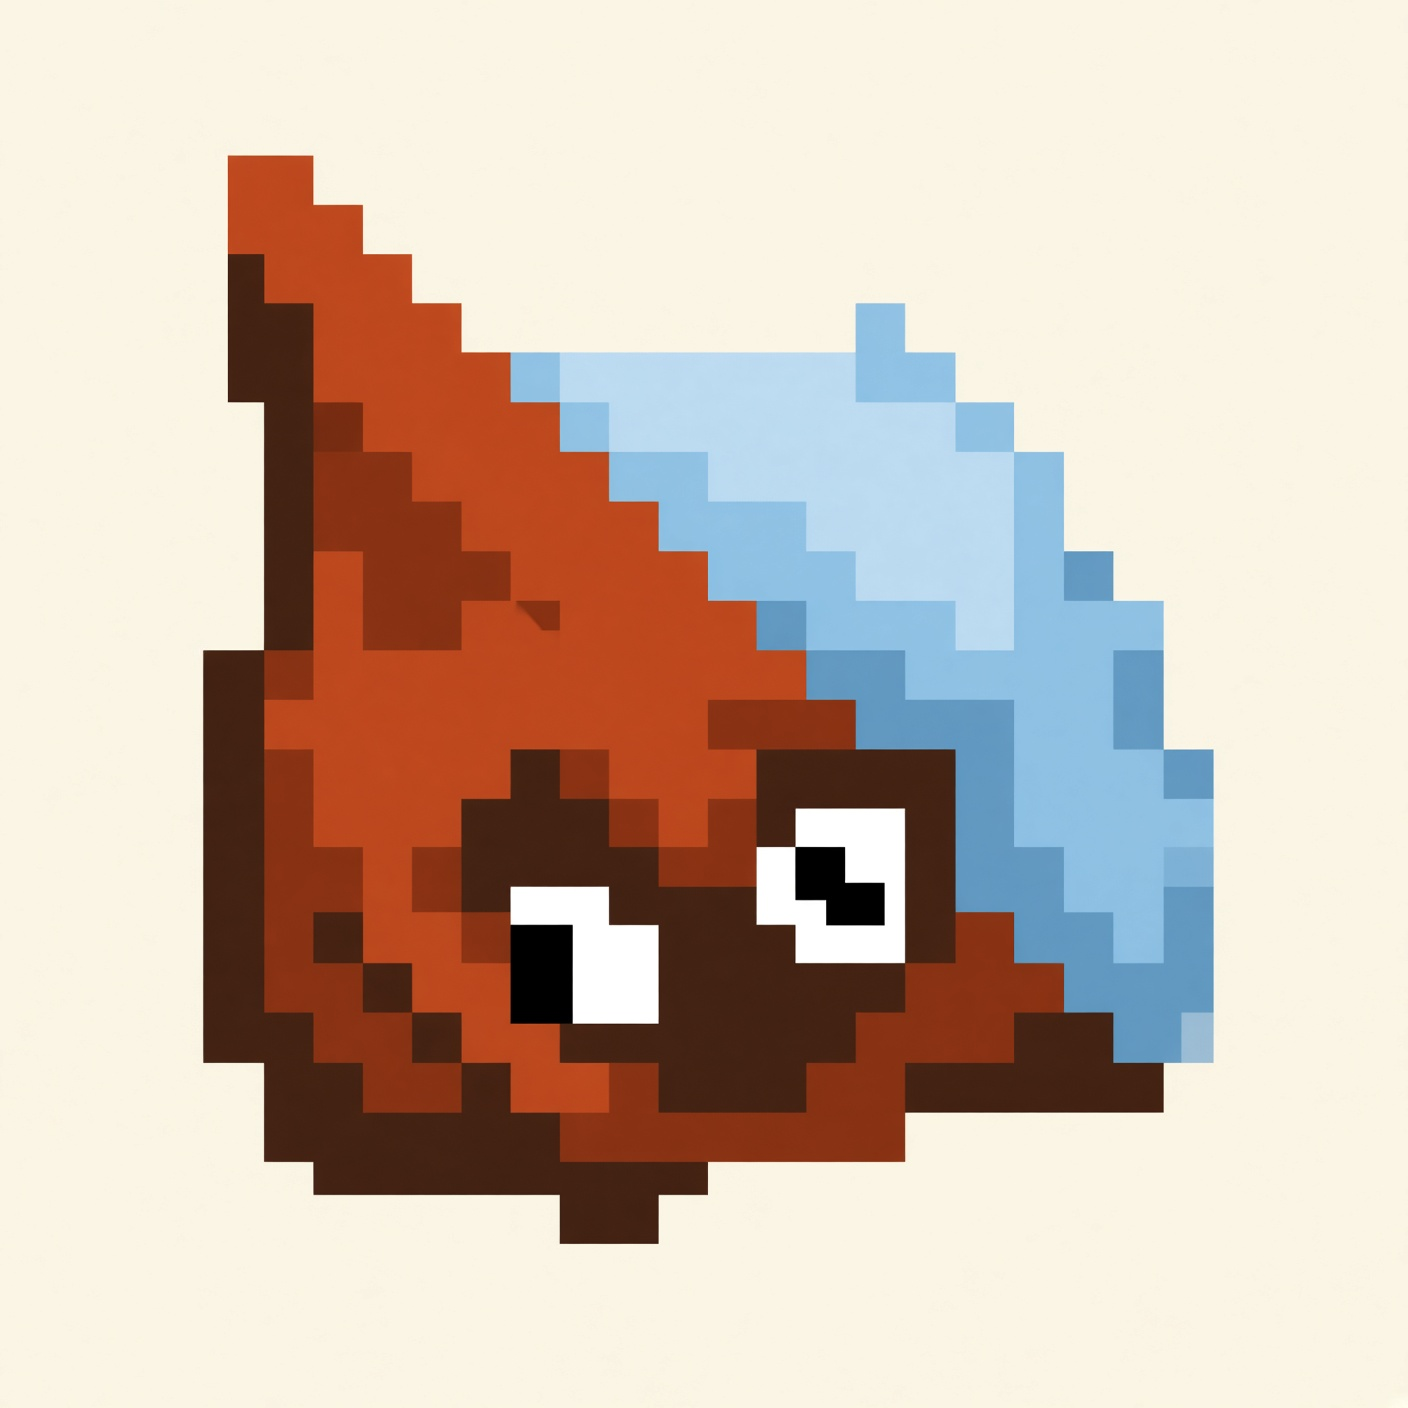
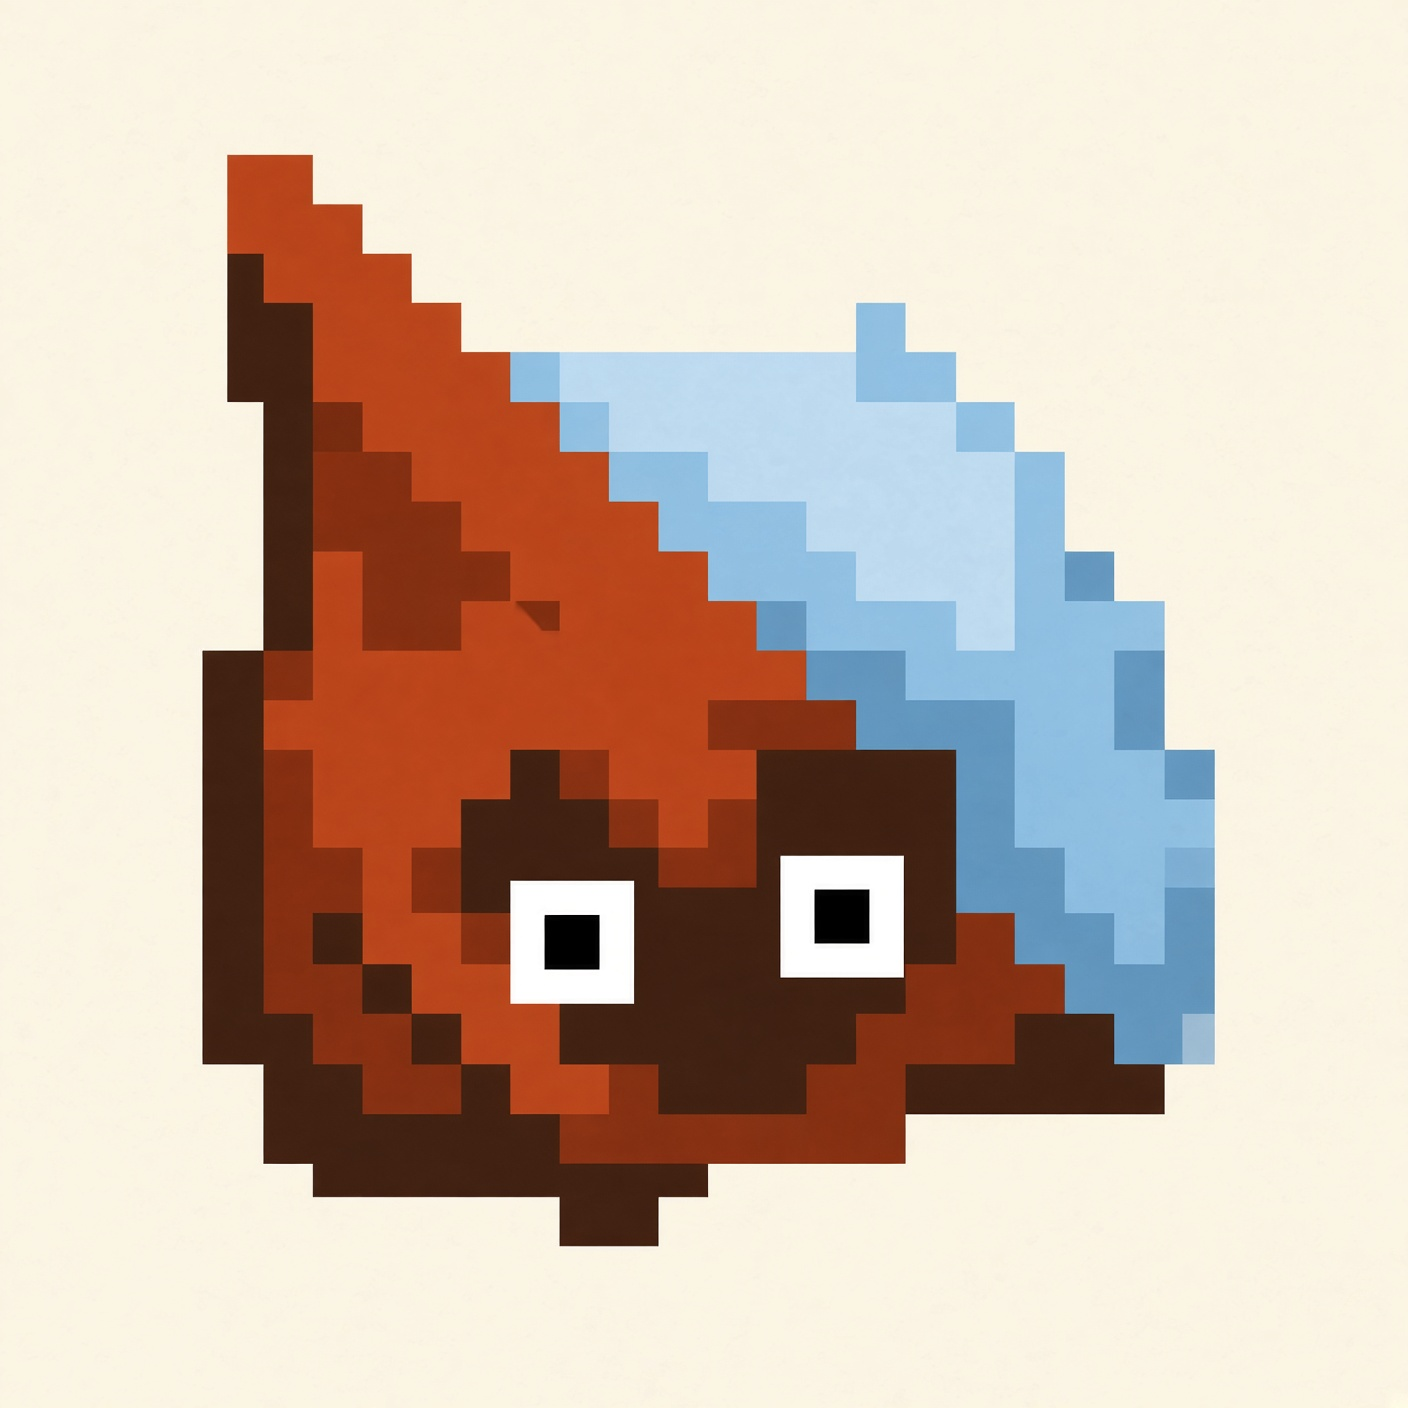
Show Eyed as a small named set.
Rift and Gilt have corrected eyes. The nine faces stay off-chain until a wallet can sign the drop factory.

diff --git a/src/routeTree.gen.ts b/src/routeTree.gen.ts
@@ -12,6 +12,7 @@ import { Route as rootRouteImport } from './routes/__root'
 import { Route as ReferralRouteImport } from './routes/referral'
 import { Route as QuestRouteImport } from './routes/quest'
 import { Route as CreateRouteImport } from './routes/create'
+import { Route as EyedRouteImport } from './routes/eyed'
 import { Route as ApiUploadStatusRouteImport } from './routes/api/upload/status'
 import { Route as ApiUploadPrepareRouteImport } from './routes/api/upload/prepare'
 import { Route as ApiUploadChallengeRouteImport } from './routes/api/upload/challenge'
@@ -42,6 +43,11 @@ const ApiUploadChallengeRoute = ApiUploadChallengeRouteImport.update({
   path: '/api/upload/challenge',
   getParentRoute: () => rootRouteImport,
 } as any)
+const EyedRoute = EyedRouteImport.update({
+  id: '/eyed',
+  path: '/eyed',
+  getParentRoute: () => rootRouteImport,
+} as any)
 const CreateRoute = CreateRouteImport.update({
   id: '/create',
   path: '/create',
@@ -60,6 +66,7 @@ export interface FileRoutesByFullPath {
   '/api/upload/status': typeof ApiUploadStatusRoute
   '/quest': typeof QuestRoute
   '/create': typeof CreateRoute
+  '/eyed': typeof EyedRoute
   '/referral': typeof ReferralRoute
 }
 export interface FileRoutesByTo {
@@ -69,6 +76,7 @@ export interface FileRoutesByTo {
   '/api/upload/status': typeof ApiUploadStatusRoute
   '/quest': typeof QuestRoute
   '/create': typeof CreateRoute
+  '/eyed': typeof EyedRoute
   '/referral': typeof ReferralRoute
 }
 export interface FileRoutesById {
@@ -79,14 +87,15 @@ export interface FileRoutesById {
   '/api/upload/status': typeof ApiUploadStatusRoute
   '/quest': typeof QuestRoute
   '/create': typeof CreateRoute
+  '/eyed': typeof EyedRoute
   '/referral': typeof ReferralRoute
 }
 export interface FileRouteTypes {
   fileRoutesByFullPath: FileRoutesByFullPath
-  fullPaths: '/' | '/api/upload/challenge' | '/api/upload/prepare' | '/api/upload/status' | '/quest' | '/create' | '/referral'
+  fullPaths: '/' | '/api/upload/challenge' | '/api/upload/prepare' | '/api/upload/status' | '/quest' | '/create' | '/eyed' | '/referral'
   fileRoutesByTo: FileRoutesByTo
-  to: '/' | '/api/upload/challenge' | '/api/upload/prepare' | '/api/upload/status' | '/quest' | '/create' | '/referral'
-  id: '__root__' | '/' | '/api/upload/challenge' | '/api/upload/prepare' | '/api/upload/status' | '/quest' | '/create' | '/referral'
+  to: '/' | '/api/upload/challenge' | '/api/upload/prepare' | '/api/upload/status' | '/quest' | '/create' | '/eyed' | '/referral'
+  id: '__root__' | '/' | '/api/upload/challenge' | '/api/upload/prepare' | '/api/upload/status' | '/quest' | '/create' | '/eyed' | '/referral'
   fileRoutesById: FileRoutesById
 }
 export interface RootRouteChildren {
@@ -96,6 +105,7 @@ export interface RootRouteChildren {
   ApiUploadStatusRoute: typeof ApiUploadStatusRoute
   QuestRoute: typeof QuestRoute
   CreateRoute: typeof CreateRoute
+  EyedRoute: typeof EyedRoute
   ReferralRoute: typeof ReferralRoute
 }
 
@@ -120,6 +130,13 @@ declare module '@tanstack/react-router' {
       path: '/create'
       fullPath: '/create'
       preLoaderRoute: typeof CreateRouteImport
+      parentRoute: typeof rootRouteImport
+    }
+    '/eyed': {
+      id: '/eyed'
+      path: '/eyed'
+      fullPath: '/eyed'
+      preLoaderRoute: typeof EyedRouteImport
       parentRoute: typeof rootRouteImport
     }
     '/referral': {
@@ -160,6 +177,7 @@ const rootRouteChildren: RootRouteChildren = {
   ApiUploadStatusRoute: ApiUploadStatusRoute,
   QuestRoute: QuestRoute,
   CreateRoute: CreateRoute,
+  EyedRoute: EyedRoute,
   ReferralRoute: ReferralRoute,
 }
 export const routeTree = rootRouteImport

diff --git a/src/routes/index.tsx b/src/routes/index.tsx
@@ -2,6 +2,7 @@ import { createFileRoute } from "@tanstack/react-router";
 import { ArrowRight, ArrowUpRight, X } from "lucide-react";
 import { useEffect, useId, useRef, useState } from "react";
 import { EyeMark } from "@/components/wordmark";
+import { eyed } from "@/data/eyed";
 import { works, type Work } from "@/data/works";
 import { NFTMarket } from "@/components/nft-market";
 import { NFTDeploy } from "@/components/nft-deploy";
@@ -115,18 +116,21 @@ function Home() {
             <div className="section-heading">
               <div>
                 <h2 id="collection-title">Eyed</h2>
-                <p>Nine original faces. A first look, not a listing wall.</p>
+                <p>A set of nine. Not a listing wall.</p>
               </div>
+              <a className="text-link" href="/eyed">
+                Open the set
+              </a>
             </div>
             <ul className="face-grid">
-              {Array.from({ length: 9 }, (_, i) => {
-                const n = String(i + 1).padStart(2, "0");
-                return (
-                  <li key={n}>
-                    <img src={`/art/faces/${n}.png`} alt="" />
-                  </li>
-                );
-              })}
+              {eyed.map((face) => (
+                <li key={face.id}>
+                  <a href="/eyed">
+                    <img src={`/art/eyed/${face.id}.jpg`} alt={face.name} />
+                    <span>{face.name}</span>
+                  </a>
+                </li>
+              ))}
             </ul>
           </section>
         )}

diff --git a/src/routes/eyed.tsx b/src/routes/eyed.tsx
@@ -1,0 +1,36 @@
+import { createFileRoute } from "@tanstack/react-router";
+import { MarketHeader } from "@/components/market-header";
+import { SiteFooter } from "@/components/site-footer";
+import { eyed } from "@/data/eyed";
+
+export const Route = createFileRoute("/eyed")({
+  component: EyedPage,
+});
+
+function EyedPage() {
+  return (
+    <div>
+      <MarketHeader view="Eyed" />
+      <main className="market-section eyed-page">
+        <div className="section-heading">
+          <div>
+            <h1>Eyed</h1>
+            <p>Nine faces. 100 editions each, once the set is on testnet.</p>
+          </div>
+        </div>
+        <ul className="eyed-set">
+          {eyed.map((face) => (
+            <li key={face.id}>
+              <img src={`/art/eyed/${face.id}.jpg`} alt={face.name} />
+              <span>{face.name}</span>
+            </li>
+          ))}
+        </ul>
+        <p className="market-notice">
+          The drop factory is not on LiteForge yet. A wallet has to sign the launch. This chat cannot sign for you.
+        </p>
+      </main>
+      <SiteFooter />
+    </div>
+  );
+}

diff --git a/src/styles.css b/src/styles.css
@@ -526,18 +526,45 @@
 }
 .face-grid {
   display: grid;
-  grid-template-columns: repeat(3, 1fr);
-  gap: 8px;
+  grid-template-columns: repeat(3, minmax(0, 1fr));
+  gap: 10px;
+  max-width: 520px;
   margin: 0;
-  padding: 8px;
+  padding: 10px;
   list-style: none;
   background: #f3eee4;
 }
-.face-grid img {
+.face-grid a {
+  display: block;
+  color: #161616;
+}
+.face-grid img,
+.eyed-set img {
   display: block;
   width: 100%;
   height: auto;
   image-rendering: pixelated;
+}
+.face-grid span,
+.eyed-set span {
+  display: block;
+  margin-top: 6px;
+  font-size: 13px;
+}
+.eyed-page {
+  padding-top: 128px;
+}
+.eyed-set {
+  display: grid;
+  grid-template-columns: repeat(3, minmax(0, 140px));
+  gap: 18px 16px;
+  max-width: 480px;
+  margin: 0;
+  padding: 0;
+  list-style: none;
+}
+.eyed-set span {
+  color: var(--color-fg);
 }
 .token-more {
   margin-top: 12px;
@@ -553,9 +580,6 @@
 @media (max-width: 720px) {
   .quest-row {
     grid-template-columns: 1fr;
-  }
-  .face-grid {
-    grid-template-columns: repeat(2, 1fr);
   }
 }
 input,

diff --git a/src/data/eyed.ts b/src/data/eyed.ts
@@ -1,0 +1,11 @@
+export const eyed = [
+  { id: "01", name: "Vanta" },
+  { id: "02", name: "Lobe" },
+  { id: "03", name: "Notch" },
+  { id: "04", name: "Spire" },
+  { id: "05", name: "Halve" },
+  { id: "06", name: "Rift" },
+  { id: "07", name: "Limb" },
+  { id: "08", name: "Gilt" },
+  { id: "09", name: "Keel" },
+] as const;
